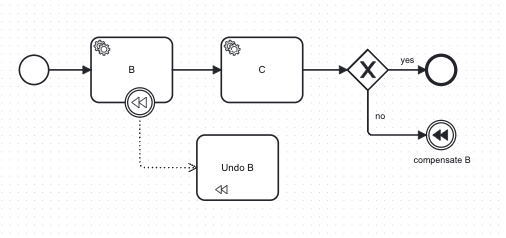
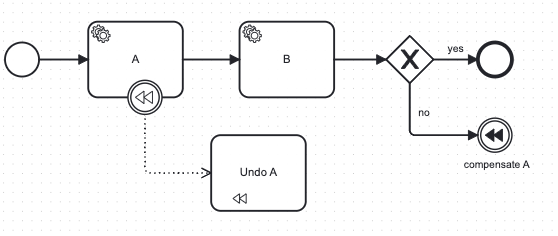
docs: update compensation event migration graphics and explanation

Changed region(s): [[0.0, 0.0593, 0.9486, 0.7119], [0.2668, 0.5636, 0.5632, 0.9195], [0.504, 0.2373, 0.5336, 0.3263]]

diff --git a/docs/components/concepts/process-instance-migration.md b/docs/components/concepts/process-instance-migration.md
@@ -262,15 +262,15 @@ If a compensation boundary event is added, a new compensation subscription is on
 For activity instances that have already finished no new compensation subscription will be opened.
 Consider the following example where the instance is waiting on service task `A`:
 
-![The instance waiting on service task B.](assets/process-instance-migration/migration-compensation_before.png)
+![The instance waiting on service task A.](assets/process-instance-migration/migration-compensation_before.png)
 
 The target process definition contains a compensation boundary event attached to service task `B`:
 
-![The target process definition contains a compensation boundary event attached to service task B.](assets/process-instance-migration/migration-compensation_after.png)
+![The target process definition contains a compensation boundary event attached to service task A.](assets/process-instance-migration/migration-compensation_after.png)
 
-If the process instance is migrated by providing mapping instruction between service tasks `A` -> `C`, then triggering compensation throw event afterward is **not** going to compensate `B`.
+If the process instance is migrated by providing mapping instruction between service tasks `A` -> `A`, the compensation subscription will be created on completion of the element `A`.
 
-However, if the process instance is migrated by providing mapping instruction between service tasks `A` -> `B`, the compensation subscription will be created on completion of the element `B`.
+However, if the process instance is migrated by providing mapping instruction between service tasks `A` -> `B`, then triggering compensation throw event afterward is **not** going to compensate `A`.
 
 ## Dealing with gateways
 
